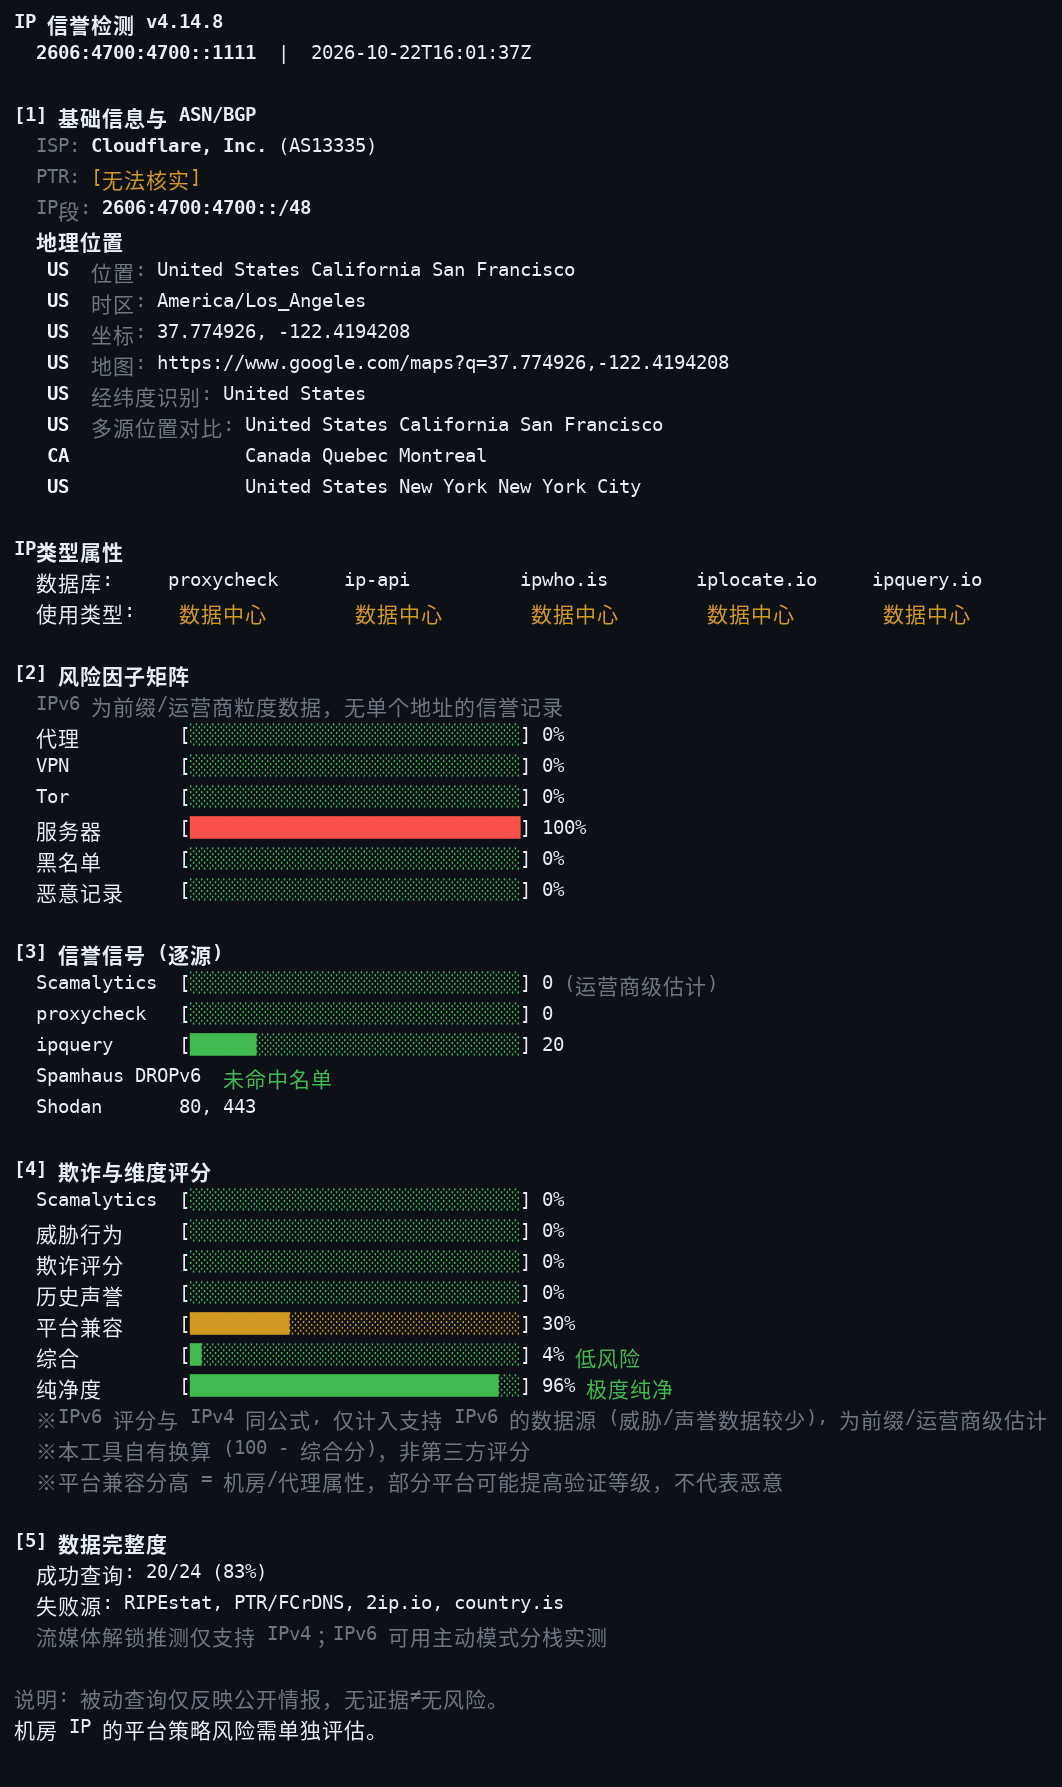
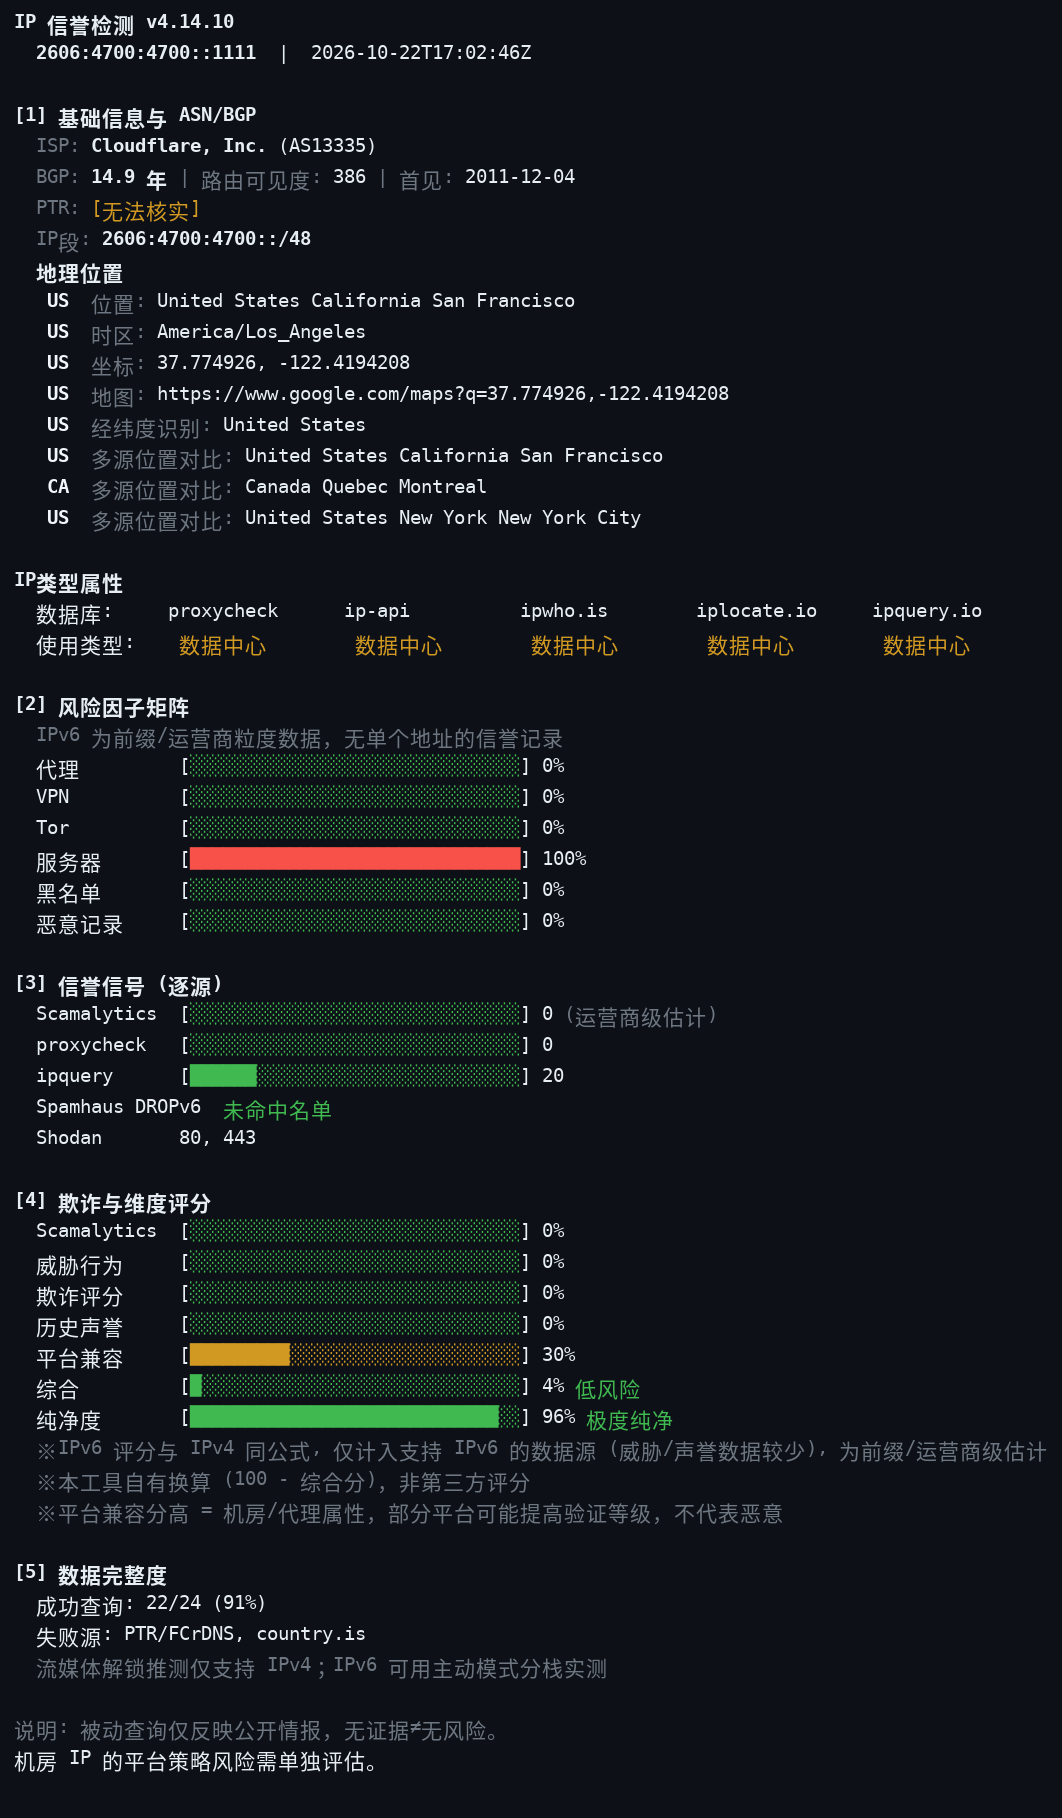
update

diff --git a/acheck.py b/acheck.py
@@ -1,6 +1,6 @@
 #!/usr/bin/env python3
 """
-IP 信誉检测 v4.14.9 — 全量修复与并发优化公开版 (零 API Key 依赖)
+IP 信誉检测 v4.14.10 — 全量修复与并发优化公开版 (零 API Key 依赖)
 
 被动模式: 仅凭 IP 地址做公开情报查询，不发起任何指向该 IP 的主动连接。
   适用: 评估尚未启用的候选 IP (如 AWS EIP)。
@@ -53,7 +53,7 @@ import http.client
 
 # stdio 编码初始化统一在 _init_console() 内进行 (仅主程序运行时), import 本文件不产生副作用。
 
-VERSION = "4.14.9"
+VERSION = "4.14.10"
 
 
 def _init_console():
@@ -2137,7 +2137,7 @@ class IPInfo(Provider):
 
     def check(self, ip):
         ok, raw = http_get(f"https://ipinfo.io/{ip}/json",
-                           headers={"User-Agent": "A-Check/4.14.9 (+https://github.com/alariclin/A-Check)"},
+                           headers={"User-Agent": "A-Check/4.14.10 (+https://github.com/alariclin/A-Check)"},
                            use_cache=False)
         if not ok:
             return {"ok": False, "err": raw}
@@ -3002,7 +3002,7 @@ def _build_unified_profile(s):
 
 SCORING_RULES = {
     "zh": """
-评分规则 (v4.14.9 免 Key 公开版):
+评分规则 (v4.14.10 免 Key 公开版):
   [威胁行为 0-100] 实际恶意行为证据
     StopForumSpam 垃圾举报命中 (每次+3, 上限25)
     SANS ISC 蜜罐攻击记录 (5 + count//5, 上限25)
@@ -3034,7 +3034,7 @@ SCORING_RULES = {
     主动模式双栈对照: IPv6 出口/泄漏判定/流媒体与测速分栈实测
 """,
     "zh-TW": """
-評分規則 (v4.14.9 免 Key 公開版):
+評分規則 (v4.14.10 免 Key 公開版):
   [威脅行為 0-100] 實際惡意行為證據
     StopForumSpam 垃圾舉報命中 (每次+3, 上限25)
     SANS ISC 蜜罐攻擊記錄 (5 + count//5, 上限25)
@@ -3066,7 +3066,7 @@ SCORING_RULES = {
     主動模式雙棧對照: IPv6 出口/洩漏判定/串流與測速分棧實測
 """,
     "en": """
-Scoring rules (v4.14.9 Keyless Public Edition):
+Scoring rules (v4.14.10 Keyless Public Edition):
   [Threat 0-100] Evidence of malicious behavior
     StopForumSpam abuse hits (+3 each, max 25)
     SANS ISC honeypot attacks (5 + count//5, max 25)
@@ -3099,7 +3099,7 @@ Scoring rules (v4.14.9 Keyless Public Edition):
     Active mode is dual-stack: IPv6 egress/leak check, per-stack streaming & speed
 """,
     "ja": """
-スコアリングルール (v4.14.9 キー不要公開版):
+スコアリングルール (v4.14.10 キー不要公開版):
   [脅威行為 0-100] 悪意ある活動の証拠
     StopForumSpam スパム報告 (+3/件, 最大25)
     SANS ISC ハニーポット攻撃記録 (5 + count//5, 最大25)
@@ -3131,7 +3131,7 @@ Scoring rules (v4.14.9 Keyless Public Edition):
     アクティブモードはデュアルスタック: IPv6出口/リーク判定/ストリーミングと速度をスタック別に実測
 """,
     "ru": """
-Правила оценки (v4.14.9 Публичная версия без ключей):
+Правила оценки (v4.14.10 Публичная версия без ключей):
   [Угрозы 0-100] Доказательства вредоносной активности
     StopForumSpam жалобы (+3 за каждую, макс. 25)
     SANS ISC атаки (5 + count//5, макс. 25)
@@ -3163,7 +3163,7 @@ Scoring rules (v4.14.9 Keyless Public Edition):
     Активный режим — двойной стек: выход IPv6/проверка утечки, стриминг и скорость по стекам
 """,
     "fa": """
-قوانین امتیازدهی (نسخه عمومی بدون کلید v4.14.9):
+قوانین امتیازدهی (نسخه عمومی بدون کلید v4.14.10):
   [رفتار تهدید 0-100] شواهد فعالیت مخرب
     StopForumSpam گزارش اسپم (+3 هر مورد، حداکثر 25)
     SANS ISC حملات ثبتشده (5 + count//5، حداکثر 25)
@@ -4053,14 +4053,10 @@ def _print_basic_block(s, prof):
             print(f"  {_fl(_cg.get('cc'))}{_c(C.dim, T('coord_country') + ':')} {_cg.get('country')}")
         if locs:
             _lbl = T("sec_loc")
-            _ind = " " * (_disp_width(_lbl) + 2)
-            for _i, k in enumerate(_order):
+            for k in _order:
                 _loc, _names = _groups[k]
                 _gf = _fl(k[0] if len(k[0]) == 2 and k[0].isalpha() else "")
-                if _i == 0:
-                    print(f"  {_gf}{_c(C.dim, _lbl + ':')} {_loc}")
-                else:
-                    print(f"  {_gf}{_ind}{_loc}")
+                print(f"  {_gf}{_c(C.dim, _lbl + ':')} {_loc}")
         else:
             print(f"  {T('no_loc_data')}")
     elif not locs:
@@ -4648,7 +4644,7 @@ def get_egress_ip():
     ]
     for url in sources:
         try:
-            _ua = {"User-Agent": "A-Check/4.14.9 (+https://github.com/alariclin/A-Check)"} if "ipinfo.io" in url else {"User-Agent": UA_BROWSER}
+            _ua = {"User-Agent": "A-Check/4.14.10 (+https://github.com/alariclin/A-Check)"} if "ipinfo.io" in url else {"User-Agent": UA_BROWSER}
             req = urllib.request.Request(url, headers=_ua)
             with urllib.request.urlopen(req, timeout=6) as r:
                 raw = r.read(512).decode("utf-8", errors="replace").strip()

diff --git a/README.en.md b/README.en.md
@@ -3,7 +3,7 @@
   <h1>A-Check</h1>
   <p><b>IP reputation & network quality checker</b> — multi-source aggregation · dual mode · single file, zero dependencies</p>
   <p>
-    <img src="https://img.shields.io/badge/version-v4.14.8-blue" alt="version">
+    <img src="https://img.shields.io/badge/version-v4.14.10-blue" alt="version">
     <img src="https://img.shields.io/badge/python-3.8+-green" alt="python">
     <img src="https://img.shields.io/badge/license-MIT-lightgrey" alt="license">
     <img src="https://img.shields.io/badge/platform-macOS%20%7C%20Windows%20%7C%20Linux-orange" alt="platform">
@@ -26,7 +26,7 @@ Main menu (the banner shows live system / hardware / network status; 12 features
 
 ![Main menu](docs/showcase-menu.png)
 
-IP report (using the public DNS 8.8.8.8 as an example):
+IP report (example: an AWS egress IP):
 
 ![Report](docs/showcase-report.png)
 
@@ -55,22 +55,22 @@ A-Check is a single-file Python script (`acheck.py`, standard library only, zero
 
 ## Report structure
 
-A full report is printed in numbered sections:
+A passive report is printed in numbered sections:
 
-- **[1] Basics** — location, ISP / organisation, AS number; **IP type attributes** (datacentre / residential / mobile / proxy / VPN / Tor flags from multiple sources); a **geolocation group** (country-code badge first: location, multi-source location comparison, coordinate reverse lookup, timezone, coordinates, map link); active mode appends local system info
+- **[1] Basics** — location, ISP / organisation, AS number; **IP type attributes** (datacentre / residential / mobile / proxy / VPN / Tor flags from multiple sources); a **geolocation group** (country-code badge first: location, timezone, coordinates, map link, coordinate reverse lookup, multi-source location comparison — every distinct verdict on its own labelled row); active mode appends local system info
 - **[2] Risk factors** — proxy / VPN / Tor / server / blacklist / malicious-record: six factors, each with a bar showing the share of sources that flagged the IP
 - **[3] Fraud & dimension scores** — fraud score, threat behaviour, historical reputation, platform compatibility and the combined score, ending with **cleanliness** and a risk level (lower is cleaner)
 - **[4] Streaming & platform availability** — **measured** unlock results in self-check mode; **inferred** from reputation signals (with a stated confidence) when looking up an arbitrary IP
 - **[5] DNS recommendations** — nearby resolvers chosen by the IP's location (passive mode)
 - **[6] Data completeness & confidence** — how many sources actually answered and whether the core sources are present, so the report makes it visible when data is thin
 
-Active mode adds unnumbered sections — DNS leak & recommendations, port 25 connectivity, multi-region speed table — for 8 sections in total.
+Self-check mode numbers its sections too. IPv4 runs **[1]–[8]**: measured streaming [4], a full DNS test (26 UDP / 15 DoH / 12 DoT resolvers, latency-ranked with a fastest pick) plus recommendations [5], the speed test [6], port 25 & DNSBL checks [7] and completeness [8]. When an IPv6 egress exists, a dual-stack verdict and a complete IPv6 stack follow as **[9]–[17]** — the IPv6 report with per-source reputation signals, an IPv6 DNS test (UDP / DoH / DoT, fastest pick included), IPv6 streaming and IPv6 speed — and the two egresses are compared for leak risk.
 
 ## The 12 menu features
 
 | # | Feature | Description |
 |---|---|---|
-| 1 | Self-check (full egress check) | Full active-mode scan, ending with the multi-region speed table |
+| 1 | Self-check (full egress check) | Full active-mode scan; dual-stack (IPv4 + IPv6) when an IPv6 egress exists |
 | 2 | Look up any IP | Enter a public IPv4 or IPv6 for a passive report; returns to the main menu automatically |
 | 3 | Streaming unlock test | Measured unlock status for 18 platforms |
 | 4 | System info & IO test | System / CPU / memory / disk details plus disk read-write speed |
@@ -97,17 +97,17 @@ Download the package for your system from [Releases](https://github.com/alaricli
 
 macOS:
 ```
-curl -sL https://github.com/alariclin/A-Check/releases/download/v4.14.8/A-Check-v4.14.8-mac-app.zip -o acheck-app.zip && unzip -qo acheck-app.zip && open A-Check.app
+curl -sL https://github.com/alariclin/A-Check/releases/download/v4.14.10/A-Check-v4.14.10-mac-app.zip -o acheck-app.zip && unzip -qo acheck-app.zip && open A-Check.app
 ```
 
 Linux / VPS:
 ```
-curl -sL https://github.com/alariclin/A-Check/releases/download/v4.14.8/A-Check-v4.14.8-linux.zip -o acheck.zip && unzip -qo acheck.zip && cd acheck-linux && bash run.sh
+curl -sL https://github.com/alariclin/A-Check/releases/download/v4.14.10/A-Check-v4.14.10-linux.zip -o acheck.zip && unzip -qo acheck.zip && cd acheck-linux && bash run.sh
 ```
 
 Windows (PowerShell):
 ```
-Invoke-WebRequest https://github.com/alariclin/A-Check/releases/download/v4.14.8/A-Check-v4.14.8-windows.zip -OutFile acheck.zip; Expand-Archive acheck.zip -Force; cd acheck-win; .\run.bat
+Invoke-WebRequest https://github.com/alariclin/A-Check/releases/download/v4.14.10/A-Check-v4.14.10-windows.zip -OutFile acheck.zip; Expand-Archive acheck.zip -Force; cd acheck-win; .\run.bat
 ```
 
 Any system (single file, Python 3.8+):
@@ -146,6 +146,7 @@ python3 acheck.py [IP] [options]
 | `--proxy HOST:PORT` | Proxy diagnostics (add `--proxy-user` / `--proxy-pass` if needed) |
 | `--batch LIST` | Batch node ranking (comma-separated host:port or socks5:// proxies) |
 | `--speed` | Multi-region speed table |
+| `--no-speed` | With `--active`: skip the speed test (interactive self-checks ask first by default) |
 | `--explain` | Print the scoring rules |
 | `--json` | JSON output (combinable with an IP / --active / --proxy) |
 | `--zh / --zh-tw / --en / --ja / --ru / --fa` | Output language |
@@ -165,6 +166,7 @@ Every factor and score is a multi-source vote; a single source's false positive 
 - Passive lookup accepts public IPv4 and IPv6; private / reserved addresses are rejected with an explanation. IPv6 reports are prefix/operator-level (geo / ASN / type / blocklist, per-source reputation signals and same-formula scores as prefix-level estimates). Self-check is dual-stack: when an IPv6 egress exists it is tested alongside IPv4, with a leak warning if the two egresses sit on different networks
 - Inferred mode (streaming availability for an arbitrary IP) is derived from reputation signals and may differ from measured results — go by the confidence stated in the report
 - Speed tests use multi-connection peak throughput, which reflects link peak capacity rather than sustained single-connection speed
+- Speed tests generate real download traffic: interactive self-checks ask for confirmation first, every node is capped at 200 MB, actual traffic is printed per stack, and `--no-speed` skips the test entirely
 - A terminal width of ≥ 60 columns is recommended; plain-text environments (pipes / no colour) degrade gracefully to colourless output
 - For self-checks and operations assessment only; please respect each data source's terms of service
 

diff --git a/README.md b/README.md
@@ -3,7 +3,7 @@
   <h1>A-Check</h1>
   <p><b>IP reputation & network quality checker</b> — multi-source aggregation · dual mode · single file, zero dependencies</p>
   <p>
-    <img src="https://img.shields.io/badge/version-v4.14.8-blue" alt="version">
+    <img src="https://img.shields.io/badge/version-v4.14.10-blue" alt="version">
     <img src="https://img.shields.io/badge/python-3.8+-green" alt="python">
     <img src="https://img.shields.io/badge/license-MIT-lightgrey" alt="license">
     <img src="https://img.shields.io/badge/platform-macOS%20%7C%20Windows%20%7C%20Linux-orange" alt="platform">
@@ -26,7 +26,7 @@ Main menu (the banner shows live system / hardware / network status; 12 features
 
 ![Main menu](docs/showcase-menu.png)
 
-IP report (using the public DNS 8.8.8.8 as an example):
+IP report (example: an AWS egress IP):
 
 ![Report](docs/showcase-report.png)
 
@@ -55,22 +55,22 @@ A-Check is a single-file Python script (`acheck.py`, standard library only, zero
 
 ## Report structure
 
-A full report is printed in numbered sections:
+A passive report is printed in numbered sections:
 
-- **[1] Basics** — location, ISP / organisation, AS number; **IP type attributes** (datacentre / residential / mobile / proxy / VPN / Tor flags from multiple sources); a **geolocation group** (country-code badge first: location, multi-source location comparison, coordinate reverse lookup, timezone, coordinates, map link); active mode appends local system info
+- **[1] Basics** — location, ISP / organisation, AS number; **IP type attributes** (datacentre / residential / mobile / proxy / VPN / Tor flags from multiple sources); a **geolocation group** (country-code badge first: location, timezone, coordinates, map link, coordinate reverse lookup, multi-source location comparison — every distinct verdict on its own labelled row); active mode appends local system info
 - **[2] Risk factors** — proxy / VPN / Tor / server / blacklist / malicious-record: six factors, each with a bar showing the share of sources that flagged the IP
 - **[3] Fraud & dimension scores** — fraud score, threat behaviour, historical reputation, platform compatibility and the combined score, ending with **cleanliness** and a risk level (lower is cleaner)
 - **[4] Streaming & platform availability** — **measured** unlock results in self-check mode; **inferred** from reputation signals (with a stated confidence) when looking up an arbitrary IP
 - **[5] DNS recommendations** — nearby resolvers chosen by the IP's location (passive mode)
 - **[6] Data completeness & confidence** — how many sources actually answered and whether the core sources are present, so the report makes it visible when data is thin
 
-Active mode adds unnumbered sections — DNS leak & recommendations, port 25 connectivity, multi-region speed table — for 8 sections in total.
+Self-check mode numbers its sections too. IPv4 runs **[1]–[8]**: measured streaming [4], a full DNS test (26 UDP / 15 DoH / 12 DoT resolvers, latency-ranked with a fastest pick) plus recommendations [5], the speed test [6], port 25 & DNSBL checks [7] and completeness [8]. When an IPv6 egress exists, a dual-stack verdict and a complete IPv6 stack follow as **[9]–[17]** — the IPv6 report with per-source reputation signals, an IPv6 DNS test (UDP / DoH / DoT, fastest pick included), IPv6 streaming and IPv6 speed — and the two egresses are compared for leak risk.
 
 ## The 12 menu features
 
 | # | Feature | Description |
 |---|---|---|
-| 1 | Self-check (full egress check) | Full active-mode scan, ending with the multi-region speed table |
+| 1 | Self-check (full egress check) | Full active-mode scan; dual-stack (IPv4 + IPv6) when an IPv6 egress exists |
 | 2 | Look up any IP | Enter a public IPv4 or IPv6 for a passive report; returns to the main menu automatically |
 | 3 | Streaming unlock test | Measured unlock status for 18 platforms |
 | 4 | System info & IO test | System / CPU / memory / disk details plus disk read-write speed |
@@ -97,17 +97,17 @@ Download the package for your system from [Releases](https://github.com/alaricli
 
 macOS:
 ```
-curl -sL https://github.com/alariclin/A-Check/releases/download/v4.14.8/A-Check-v4.14.8-mac-app.zip -o acheck-app.zip && unzip -qo acheck-app.zip && open A-Check.app
+curl -sL https://github.com/alariclin/A-Check/releases/download/v4.14.10/A-Check-v4.14.10-mac-app.zip -o acheck-app.zip && unzip -qo acheck-app.zip && open A-Check.app
 ```
 
 Linux / VPS:
 ```
-curl -sL https://github.com/alariclin/A-Check/releases/download/v4.14.8/A-Check-v4.14.8-linux.zip -o acheck.zip && unzip -qo acheck.zip && cd acheck-linux && bash run.sh
+curl -sL https://github.com/alariclin/A-Check/releases/download/v4.14.10/A-Check-v4.14.10-linux.zip -o acheck.zip && unzip -qo acheck.zip && cd acheck-linux && bash run.sh
 ```
 
 Windows (PowerShell):
 ```
-Invoke-WebRequest https://github.com/alariclin/A-Check/releases/download/v4.14.8/A-Check-v4.14.8-windows.zip -OutFile acheck.zip; Expand-Archive acheck.zip -Force; cd acheck-win; .\run.bat
+Invoke-WebRequest https://github.com/alariclin/A-Check/releases/download/v4.14.10/A-Check-v4.14.10-windows.zip -OutFile acheck.zip; Expand-Archive acheck.zip -Force; cd acheck-win; .\run.bat
 ```
 
 Any system (single file, Python 3.8+):
@@ -146,6 +146,7 @@ python3 acheck.py [IP] [options]
 | `--proxy HOST:PORT` | Proxy diagnostics (add `--proxy-user` / `--proxy-pass` if needed) |
 | `--batch LIST` | Batch node ranking (comma-separated host:port or socks5:// proxies) |
 | `--speed` | Multi-region speed table |
+| `--no-speed` | With `--active`: skip the speed test (interactive self-checks ask first by default) |
 | `--explain` | Print the scoring rules |
 | `--json` | JSON output (combinable with an IP / --active / --proxy) |
 | `--zh / --zh-tw / --en / --ja / --ru / --fa` | Output language |
@@ -165,6 +166,7 @@ Every factor and score is a multi-source vote; a single source's false positive 
 - Passive lookup accepts public IPv4 and IPv6; private / reserved addresses are rejected with an explanation. IPv6 reports are prefix/operator-level (geo / ASN / type / blocklist, per-source reputation signals and same-formula scores as prefix-level estimates). Self-check is dual-stack: when an IPv6 egress exists it is tested alongside IPv4, with a leak warning if the two egresses sit on different networks
 - Inferred mode (streaming availability for an arbitrary IP) is derived from reputation signals and may differ from measured results — go by the confidence stated in the report
 - Speed tests use multi-connection peak throughput, which reflects link peak capacity rather than sustained single-connection speed
+- Speed tests generate real download traffic: interactive self-checks ask for confirmation first, every node is capped at 200 MB, actual traffic is printed per stack, and `--no-speed` skips the test entirely
 - A terminal width of ≥ 60 columns is recommended; plain-text environments (pipes / no colour) degrade gracefully to colourless output
 - For self-checks and operations assessment only; please respect each data source's terms of service
 
